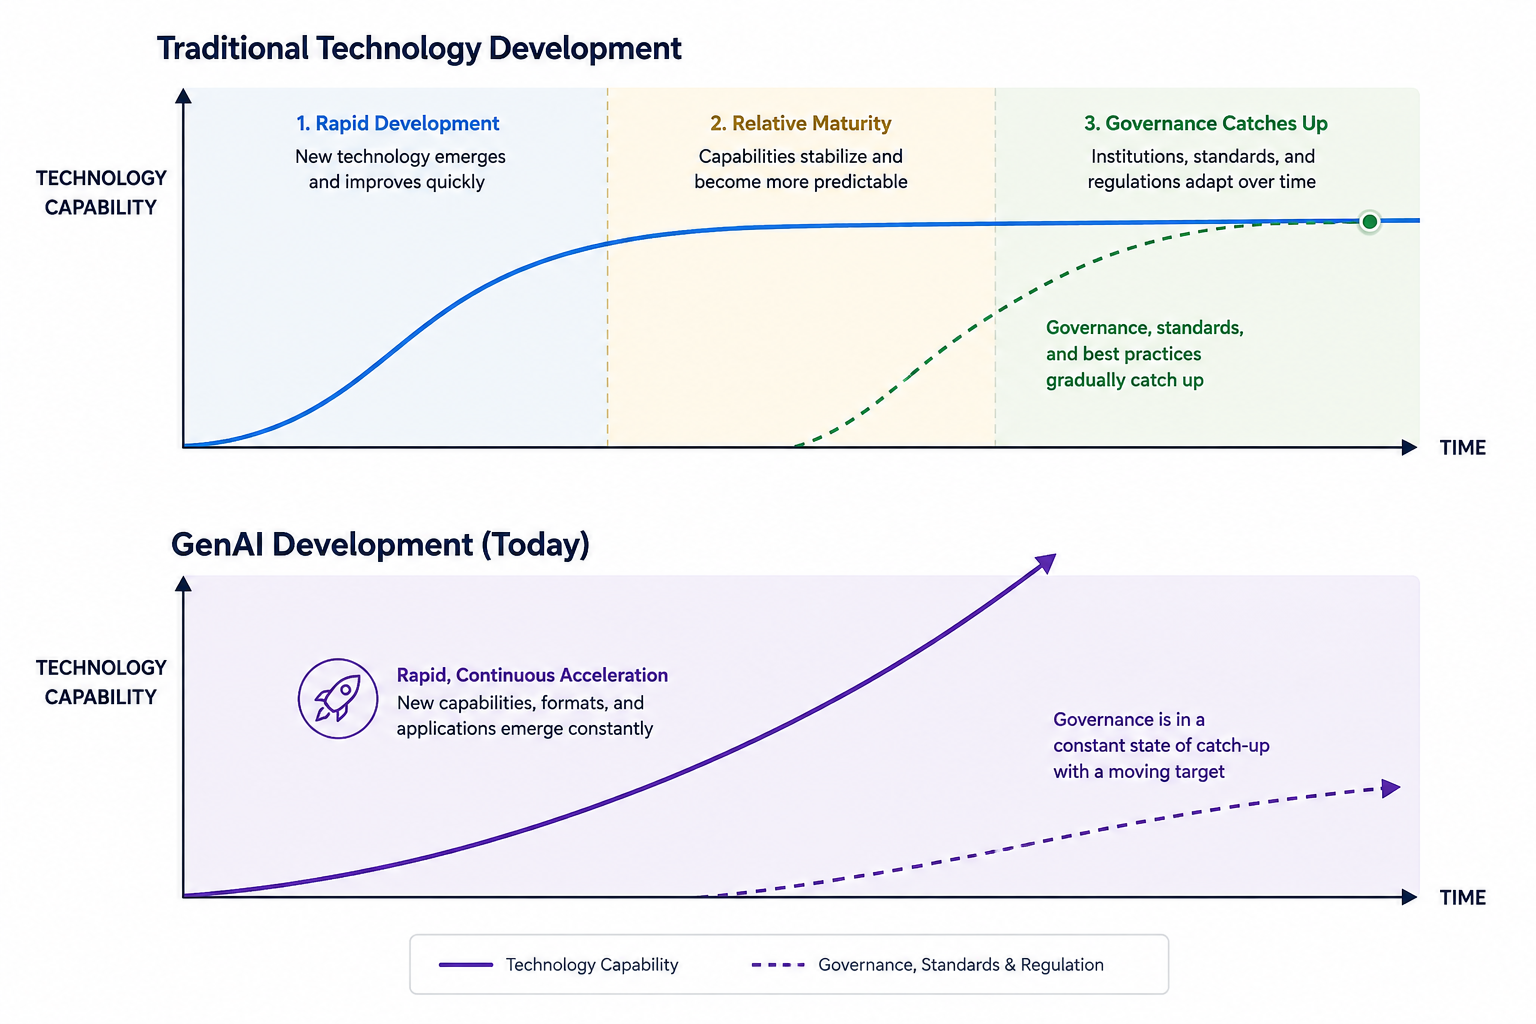
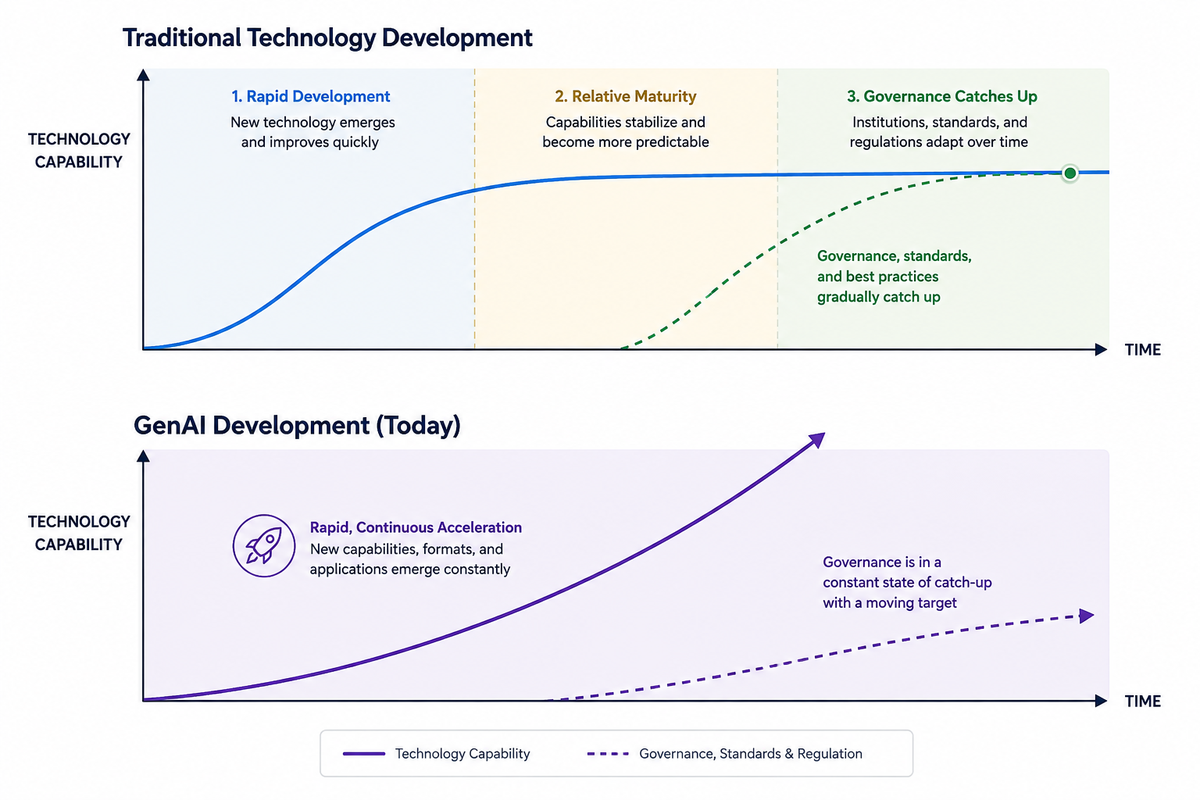
Publish: The Reddit Lawsuit — polish images, fix inline figure, curated tags

diff --git a/posts/The-Reddit-Lawsuit.md b/posts/The-Reddit-Lawsuit.md
@@ -2,12 +2,12 @@
 title: "The Reddit Lawsuit Reveals a Larger AI Governance Question Than Copyright"
 date: 2026-08-03
 slug: the-reddit-lawsuit-reveals-a-larger-ai-governance-question-than-copyright
-tag: AI Governance, Cybersecurity
+tag: AI Governance, Regulation & Policy
 excerpt: "A recent federal ruling allowing Reddit's lawsuit against Perplexity and SerpApi to proceed is widely viewed as another AI copyright dispute. The more interesting question may be what the case reveals about AI's impact on cybersecurity, governance, and the assumptions underlying modern institutions."
 takeaway: "The legal doctrines governing unauthorized access and copyright are not new. What may be changing is the technological environment in which they operate: AI is making sophisticated capabilities cheaper, easier to replicate, globally accessible, and still rapidly evolving. The governance challenge may therefore be less about inventing new rules than about whether existing institutions can adapt quickly enough."
 cover: "/assets/a2a4df02ac0ddf5b56d5b398ef80f946b0acb1fa7b576a7e61050b07930a67b6.png"
 cover_alt: "Conceptual illustration comparing traditional technology maturity with rapidly evolving AI capabilities and governance lag."
-published: false
+published: true
 ---
 
 ## Another AI Copyright Lawsuit?
@@ -81,8 +81,10 @@ The more interesting question is whether AI changes **how quickly** that cycle u
 
 Most major technologies have followed a broadly similar trajectory. Traditional technologies typically enter a period of relative maturity, allowing governance, engineering standards, education, and security practices to gradually catch up.
 
-assets/6da56f95b01975b964d195d0af69ff885932d987b63277561bd1fc95b1bcfe50.png
-
+<figure>
+  <img src="/assets/6da56f95b01975b964d195d0af69ff885932d987b63277561bd1fc95b1bcfe50.png" alt="Traditional technologies mature and stabilize over time, giving institutions room to adapt; AI's capability curve may be rising faster than governance can follow.">
+  <figcaption>Traditional technologies tend to mature and stabilize, giving institutions time to catch up. AI's trajectory may be compressing that window.</figcaption>
+</figure>
 
 Electricity required infrastructure.
 
